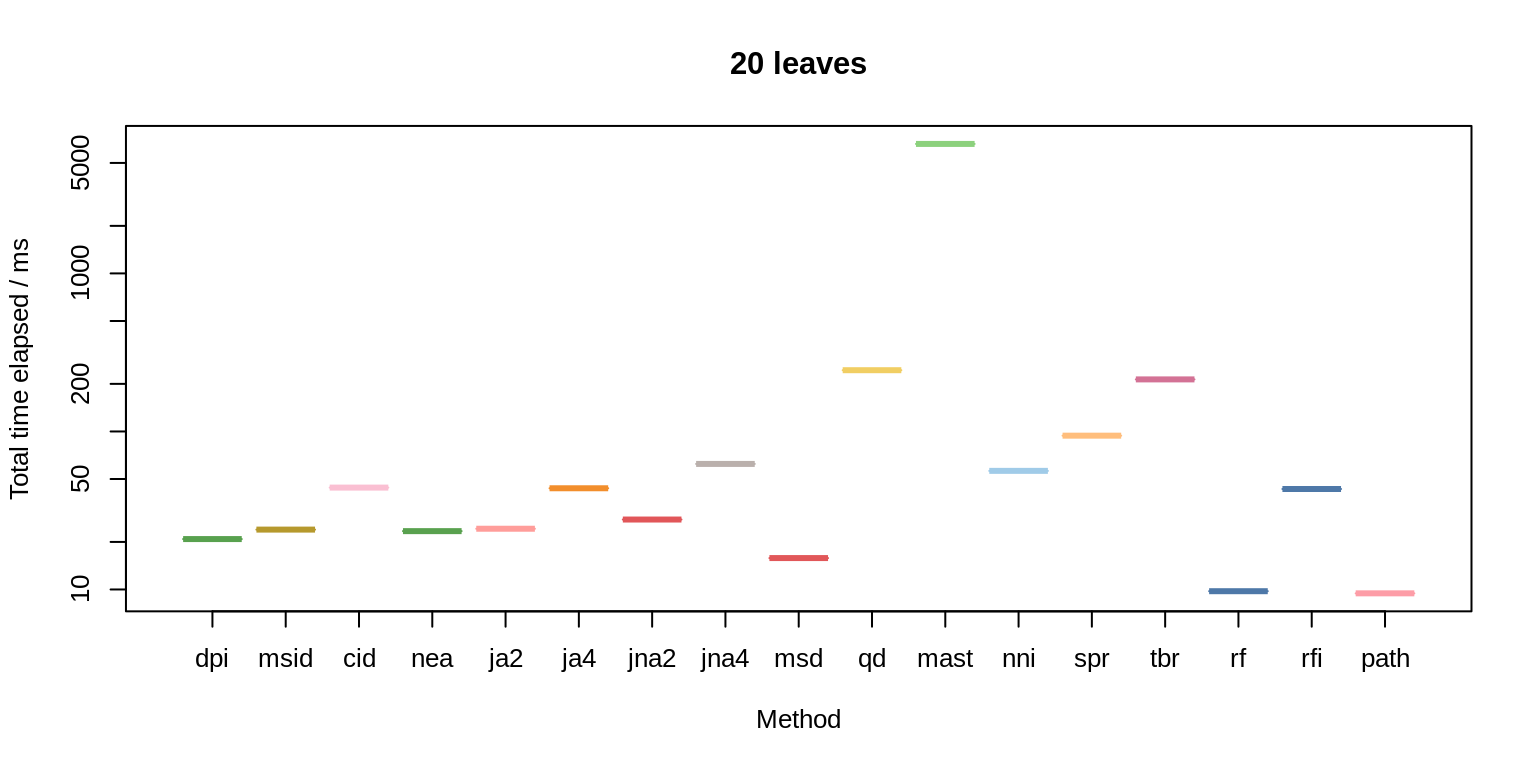
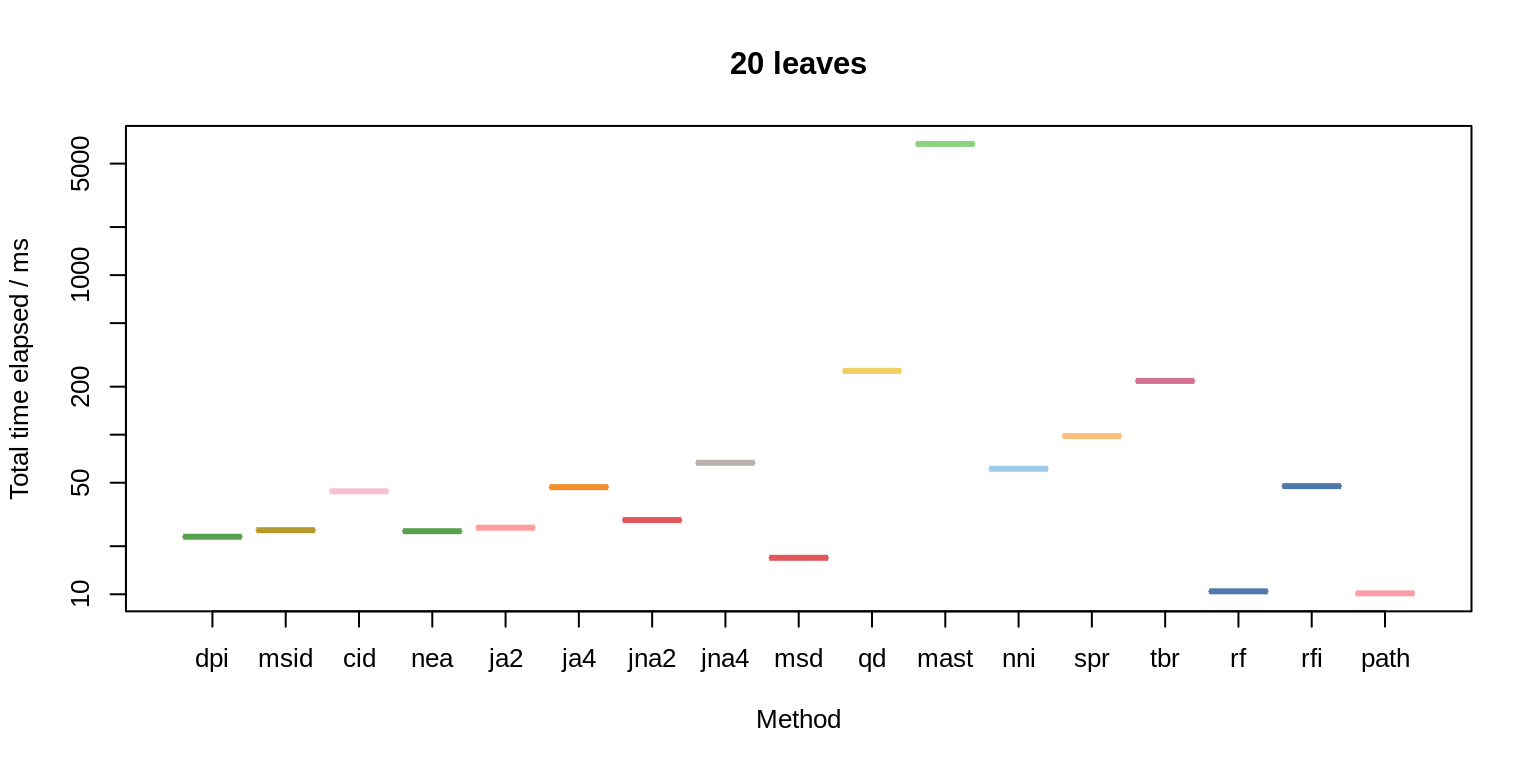
Built site for TreeDistData: 0.0.0.9008@fed78a9

diff --git a/articles/10-timing.html b/articles/10-timing.html
@@ -5,12 +5,12 @@
 <meta charset="utf-8">
 <meta http-equiv="X-UA-Compatible" content="IE=edge">
 <meta name="viewport" content="width=device-width, initial-scale=1.0">
-<title>10. Timing benchmarks • TreeDistData</title>
+<title>4. Timing benchmarks • TreeDistData</title>
 <!-- jquery --><script src="https://cdnjs.cloudflare.com/ajax/libs/jquery/3.3.1/jquery.min.js" integrity="sha256-FgpCb/KJQlLNfOu91ta32o/NMZxltwRo8QtmkMRdAu8=" crossorigin="anonymous"></script><!-- Bootstrap --><link rel="stylesheet" href="https://cdnjs.cloudflare.com/ajax/libs/twitter-bootstrap/3.3.7/css/bootstrap.min.css" integrity="sha256-916EbMg70RQy9LHiGkXzG8hSg9EdNy97GazNG/aiY1w=" crossorigin="anonymous">
 <script src="https://cdnjs.cloudflare.com/ajax/libs/twitter-bootstrap/3.3.7/js/bootstrap.min.js" integrity="sha256-U5ZEeKfGNOja007MMD3YBI0A3OSZOQbeG6z2f2Y0hu8=" crossorigin="anonymous"></script><!-- Font Awesome icons --><link rel="stylesheet" href="https://cdnjs.cloudflare.com/ajax/libs/font-awesome/5.7.1/css/all.min.css" integrity="sha256-nAmazAk6vS34Xqo0BSrTb+abbtFlgsFK7NKSi6o7Y78=" crossorigin="anonymous">
 <link rel="stylesheet" href="https://cdnjs.cloudflare.com/ajax/libs/font-awesome/5.7.1/css/v4-shims.min.css" integrity="sha256-6qHlizsOWFskGlwVOKuns+D1nB6ssZrHQrNj1wGplHc=" crossorigin="anonymous">
 <!-- clipboard.js --><script src="https://cdnjs.cloudflare.com/ajax/libs/clipboard.js/2.0.4/clipboard.min.js" integrity="sha256-FiZwavyI2V6+EXO1U+xzLG3IKldpiTFf3153ea9zikQ=" crossorigin="anonymous"></script><!-- headroom.js --><script src="https://cdnjs.cloudflare.com/ajax/libs/headroom/0.9.4/headroom.min.js" integrity="sha256-DJFC1kqIhelURkuza0AvYal5RxMtpzLjFhsnVIeuk+U=" crossorigin="anonymous"></script><script src="https://cdnjs.cloudflare.com/ajax/libs/headroom/0.9.4/jQuery.headroom.min.js" integrity="sha256-ZX/yNShbjqsohH1k95liqY9Gd8uOiE1S4vZc+9KQ1K4=" crossorigin="anonymous"></script><!-- pkgdown --><link href="../pkgdown.css" rel="stylesheet">
-<script src="../pkgdown.js"></script><meta property="og:title" content="10. Timing benchmarks">
+<script src="../pkgdown.js"></script><meta property="og:title" content="4. Timing benchmarks">
 <meta property="og:description" content="">
 <meta name="twitter:card" content="summary">
 <!-- mathjax --><script src="https://cdnjs.cloudflare.com/ajax/libs/mathjax/2.7.5/MathJax.js" integrity="sha256-nvJJv9wWKEm88qvoQl9ekL2J+k/RWIsaSScxxlsrv8k=" crossorigin="anonymous"></script><script src="https://cdnjs.cloudflare.com/ajax/libs/mathjax/2.7.5/config/TeX-AMS-MML_HTMLorMML.js" integrity="sha256-84DKXVJXs0/F8OTMzX4UR909+jtl4G7SPypPavF+GfA=" crossorigin="anonymous"></script><!--[if lt IE 9]>
@@ -81,7 +81,7 @@
       <a href="../articles/09-expected-similarity.html">2.2: Context tree distance values</a>
     </li>
     <li>
-      <a href="../articles/10-timing.html">10. Timing benchmarks</a>
+      <a href="../articles/10-timing.html">4. Timing benchmarks</a>
     </li>
     <li>
       <a href="../articles/11-correlation.html">11. Metric correlation</a>
@@ -115,7 +115,7 @@
       </header><div class="row">
   <div class="col-md-9 contents">
     <div class="page-header toc-ignore">
-      <h1>10. Timing benchmarks</h1>
+      <h1>4. Timing benchmarks</h1>
                         <h4 class="author">Martin R. Smith <a href="mailto:martin.smith@durham.ac.uk">martin.smith@durham.ac.uk</a>
 </h4>
             
@@ -128,10 +128,18 @@
 
     
     
-<p>Benchmarking conducted on an Intel(R) Xeon(R) CPU machine with <!--2 cores and--> 8.57 TB of RAM, comparing 45 trees obtained by performing successive subtree pruning and regrafting rearrangements on a pectinate starting tree.</p>
 <p>The time taken to compare all 990 pairs of trees by each method, was calculated, replicating timing 1 times.</p>
+<p>The below are the results of a benchmarking exercise conducted on an Intel(R) Xeon(R) CPU machine with <!--2 cores and--> 8.57 TB of RAM, comparing 45 trees obtained by performing successive subtree pruning and regrafting rearrangements on a pectinate starting tree.<br>
+The values reported in <span class="citation">(Smith, 2020)</span> were calculated on a modest desktop computer, and will differ from those reported here, which will have been generated on the hardware system used to render the documentation.</p>
+<div id="figure" class="section level2">
+<h2 class="hasAnchor">
+<a href="#figure" class="anchor"></a>Figure</h2>
 <p><img src="10-timing_files/figure-html/timings-20-1.png" width="768"></p>
 <p><img src="10-timing_files/figure-html/timings-50-1.png" width="768"></p>
+</div>
+<div id="tabulation" class="section level2">
+<h2 class="hasAnchor">
+<a href="#tabulation" class="anchor"></a>Tabulation</h2>
 <table class="table">
 <caption>Time per comparison / µs</caption>
 <thead><tr class="header">
@@ -142,95 +150,109 @@
 <tbody>
 <tr class="odd">
 <td>Path</td>
-<td align="right">9.5</td>
+<td align="right">10</td>
 <td align="right">15</td>
 </tr>
 <tr class="even">
 <td>Robinson-Foulds</td>
-<td align="right">9.9</td>
+<td align="right">11</td>
 <td align="right">13</td>
 </tr>
 <tr class="odd">
 <td>Match. Split Dist.</td>
-<td align="right">16.0</td>
-<td align="right">46</td>
+<td align="right">17</td>
+<td align="right">48</td>
 </tr>
 <tr class="even">
 <td>Diff. Phylog. Info</td>
-<td align="right">21.0</td>
-<td align="right">84</td>
+<td align="right">23</td>
+<td align="right">88</td>
 </tr>
 <tr class="odd">
 <td>Nye et al.</td>
-<td align="right">24.0</td>
+<td align="right">25</td>
 <td align="right">140</td>
 </tr>
 <tr class="even">
 <td>Match. Split Info Dist</td>
-<td align="right">24.0</td>
-<td align="right">150</td>
+<td align="right">25</td>
+<td align="right">160</td>
 </tr>
 <tr class="odd">
 <td>JRF (k=2, arboreal)</td>
-<td align="right">24.0</td>
+<td align="right">26</td>
 <td align="right">120</td>
 </tr>
 <tr class="even">
 <td>JRF (k=2, non-arb.)</td>
-<td align="right">28.0</td>
+<td align="right">29</td>
 <td align="right">180</td>
 </tr>
 <tr class="odd">
-<td>Robinson-Foulds Info</td>
-<td align="right">44.0</td>
-<td align="right">130</td>
-</tr>
-<tr class="even">
-<td>JRF (k=4, arboreal)</td>
-<td align="right">44.0</td>
-<td align="right">550</td>
-</tr>
-<tr class="odd">
 <td>Clust. Info. Dist.</td>
-<td align="right">45.0</td>
+<td align="right">45</td>
 <td align="right">270</td>
 </tr>
 <tr class="even">
+<td>JRF (k=4, arboreal)</td>
+<td align="right">47</td>
+<td align="right">570</td>
+</tr>
+<tr class="odd">
+<td>Robinson-Foulds Info</td>
+<td align="right">48</td>
+<td align="right">130</td>
+</tr>
+<tr class="even">
 <td>NNI (approx.)</td>
-<td align="right">57.0</td>
-<td align="right">85</td>
+<td align="right">62</td>
+<td align="right">84</td>
 </tr>
 <tr class="odd">
 <td>JRF (k=4, non-arb.)</td>
-<td align="right">63.0</td>
+<td align="right">67</td>
 <td align="right">900</td>
 </tr>
 <tr class="even">
 <td>SPR (approx.)</td>
-<td align="right">95.0</td>
-<td align="right">790</td>
+<td align="right">99</td>
+<td align="right">800</td>
 </tr>
 <tr class="odd">
 <td>TBR (approx.)</td>
-<td align="right">220.0</td>
-<td align="right">370</td>
+<td align="right">220</td>
+<td align="right">380</td>
 </tr>
 <tr class="even">
 <td>Quartet</td>
-<td align="right">250.0</td>
-<td align="right">440</td>
+<td align="right">250</td>
+<td align="right">450</td>
 </tr>
 <tr class="odd">
 <td>MAST size</td>
-<td align="right">6700.0</td>
-<td align="right">26000</td>
+<td align="right">6700</td>
+<td align="right">27000</td>
 </tr>
 </tbody>
 </table>
+<div id="refs" class="references">
+<div id="ref-Smith2020">
+<p>Smith, M. R. (2020). Information theoretic Generalized Robinson-Foulds metrics for comparing phylogenetic trees. <em>In Review</em>.</p>
 </div>
+</div>
+</div>
+  </div>
 
   <div class="col-md-3 hidden-xs hidden-sm" id="sidebar">
 
+        <div id="tocnav">
+      <h2 class="hasAnchor">
+<a href="#tocnav" class="anchor"></a>Contents</h2>
+      <ul class="nav nav-pills nav-stacked">
+<li><a href="#figure">Figure</a></li>
+      <li><a href="#tabulation">Tabulation</a></li>
+      </ul>
+</div>
       </div>
 
 </div>

diff --git a/news/index.html b/news/index.html
@@ -117,7 +117,7 @@
       <a href="../articles/09-expected-similarity.html">2.2: Context tree distance values</a>
     </li>
     <li>
-      <a href="../articles/10-timing.html">10. Timing benchmarks</a>
+      <a href="../articles/10-timing.html">4. Timing benchmarks</a>
     </li>
     <li>
       <a href="../articles/11-correlation.html">11. Metric correlation</a>
@@ -184,21 +184,24 @@
 <h1 class="page-header">
 <a href="#treedistdata-0-0-0-9005-development" class="anchor"></a>TreeDistData 0.0.0.9005 (development)</h1>
 <ul>
-<li>Percentiles for randomTreeDistances</li>
+<li>Percentiles for <code>randomTreeDistances</code>
+</li>
 </ul>
 </div>
     <div id="treedistdata-0-0-0-9004-development" class="section level1">
 <h1 class="page-header">
 <a href="#treedistdata-0-0-0-9004-development" class="anchor"></a>TreeDistData 0.0.0.9004 (development)</h1>
 <ul>
-<li>Add pectinateDistance11</li>
+<li>Add <code>pectinateDistance11</code>
+</li>
 </ul>
 </div>
     <div id="treedistdata-0-0-0-9003-development" class="section level1">
 <h1 class="page-header">
 <a href="#treedistdata-0-0-0-9003-development" class="anchor"></a>TreeDistData 0.0.0.9003 (development)</h1>
 <ul>
-<li>Add distanceDistribution11</li>
+<li>Add <code>distanceDistribution11</code>
+</li>
 </ul>
 </div>
     <div id="treedistdata-0-0-0-9002-development" class="section level1">
@@ -212,14 +215,15 @@
 <h1 class="page-header">
 <a href="#treedistdata-0-0-0-9001-development" class="anchor"></a>TreeDistData 0.0.0.9001 (development)</h1>
 <ul>
-<li>Update to use new function names MutualPhylogeneticInfo, MutualMatchingSplitInfo</li>
+<li>Update to use new function names <code>MutualPhylogeneticInfo()</code>, <code>MutualMatchingSplitInfo()</code>
+</li>
 </ul>
 </div>
     <div id="treedistdata-0-0-0-9000-development" class="section level1">
 <h1 class="page-header">
 <a href="#treedistdata-0-0-0-9000-development" class="anchor"></a>TreeDistData 0.0.0.9000 (development)</h1>
 <ul>
-<li>Extracted package from <code>TreeSearch</code> 0.3.2.9005.</li>
+<li>Extracted package from ‘TreeSearch’ 0.3.2.9005.</li>
 </ul>
 </div>
   </div>

diff --git a/reference/bullseye.html b/reference/bullseye.html
@@ -120,7 +120,7 @@ Kuhner and Yamato (2015)." />
       <a href="../articles/09-expected-similarity.html">2.2: Context tree distance values</a>
     </li>
     <li>
-      <a href="../articles/10-timing.html">10. Timing benchmarks</a>
+      <a href="../articles/10-timing.html">4. Timing benchmarks</a>
     </li>
     <li>
       <a href="../articles/11-correlation.html">11. Metric correlation</a>
@@ -186,7 +186,7 @@ Kuhner and Yamato (2015).</p>
 <code>20 leaves</code> and <code>50 leaves</code>.  Each element contains 1 000 trees with <em>n</em>
 leaves, randomly sampled from the uniform distribution using <code><a href='https://rdrr.io/pkg/ape/man/rtree.html'>ape::rtree</a></code>.</p>
 <p><code>bullXXInferred</code> is a list with four elements, named as in <code>bullseyeTrees</code>.
-Each element contains 1 000 subelements. Each subelement is a list of
+Each element contains 1 000 sub-elements. Each sub-element is a list of
 ten trees, which have been inferred from progressively more degraded datasets,
 originally simulated from the corresponding tree in <code>bullseyeTrees</code>.</p>
 <p><code>bullXXScores</code> is a list with four elements, named as in <code>bullseyeTrees</code>.

diff --git a/articles/index.html b/articles/index.html
@@ -117,7 +117,7 @@
       <a href="../articles/09-expected-similarity.html">2.2: Context tree distance values</a>
     </li>
     <li>
-      <a href="../articles/10-timing.html">10. Timing benchmarks</a>
+      <a href="../articles/10-timing.html">4. Timing benchmarks</a>
     </li>
     <li>
       <a href="../articles/11-correlation.html">11. Metric correlation</a>
@@ -168,7 +168,7 @@
         <li><a href="07-bullseye.html">1.8: Bullseye tests</a></li>
         <li><a href="08-spr-walking.html">1.9: Artificial tree rearrangement</a></li>
         <li><a href="09-expected-similarity.html">2.2: Context tree distance values</a></li>
-        <li><a href="10-timing.html">10. Timing benchmarks</a></li>
+        <li><a href="10-timing.html">4. Timing benchmarks</a></li>
         <li><a href="11-correlation.html">11. Metric correlation</a></li>
         <li><a href="X-heterogeneity.html">Heterogeneity</a></li>
       </ul>

diff --git a/reference/distanceDistributions.html b/reference/distanceDistributions.html
@@ -121,7 +121,7 @@ uniform distribution using ape::rtree(nTip, br=NULL)." />
       <a href="../articles/09-expected-similarity.html">2.2: Context tree distance values</a>
     </li>
     <li>
-      <a href="../articles/10-timing.html">10. Timing benchmarks</a>
+      <a href="../articles/10-timing.html">4. Timing benchmarks</a>
     </li>
     <li>
       <a href="../articles/11-correlation.html">11. Metric correlation</a>

diff --git a/reference/randomTreePairs.html b/reference/randomTreePairs.html
@@ -120,7 +120,7 @@ distribution using ape::rtree(nTip, br = NULL)." />
       <a href="../articles/09-expected-similarity.html">2.2: Context tree distance values</a>
     </li>
     <li>
-      <a href="../articles/10-timing.html">10. Timing benchmarks</a>
+      <a href="../articles/10-timing.html">4. Timing benchmarks</a>
     </li>
     <li>
       <a href="../articles/11-correlation.html">11. Metric correlation</a>

diff --git a/reference/randomTreeDistances.html b/reference/randomTreeDistances.html
@@ -121,7 +121,7 @@ ape::rtree(nTip, br=NULL)." />
       <a href="../articles/09-expected-similarity.html">2.2: Context tree distance values</a>
     </li>
     <li>
-      <a href="../articles/10-timing.html">10. Timing benchmarks</a>
+      <a href="../articles/10-timing.html">4. Timing benchmarks</a>
     </li>
     <li>
       <a href="../articles/11-correlation.html">11. Metric correlation</a>

diff --git a/reference/AllDists.html b/reference/AllDists.html
@@ -119,7 +119,7 @@
       <a href="../articles/09-expected-similarity.html">2.2: Context tree distance values</a>
     </li>
     <li>
-      <a href="../articles/10-timing.html">10. Timing benchmarks</a>
+      <a href="../articles/10-timing.html">4. Timing benchmarks</a>
     </li>
     <li>
       <a href="../articles/11-correlation.html">11. Metric correlation</a>

diff --git a/reference/CompareAllTrees.html b/reference/CompareAllTrees.html
@@ -119,7 +119,7 @@
       <a href="../articles/09-expected-similarity.html">2.2: Context tree distance values</a>
     </li>
     <li>
-      <a href="../articles/10-timing.html">10. Timing benchmarks</a>
+      <a href="../articles/10-timing.html">4. Timing benchmarks</a>
     </li>
     <li>
       <a href="../articles/11-correlation.html">11. Metric correlation</a>

diff --git a/reference/PairwiseDistances.html b/reference/PairwiseDistances.html
@@ -119,7 +119,7 @@
       <a href="../articles/09-expected-similarity.html">2.2: Context tree distance values</a>
     </li>
     <li>
-      <a href="../articles/10-timing.html">10. Timing benchmarks</a>
+      <a href="../articles/10-timing.html">4. Timing benchmarks</a>
     </li>
     <li>
       <a href="../articles/11-correlation.html">11. Metric correlation</a>

diff --git a/reference/TreeDistCol.html b/reference/TreeDistCol.html
@@ -119,7 +119,7 @@
       <a href="../articles/09-expected-similarity.html">2.2: Context tree distance values</a>
     </li>
     <li>
-      <a href="../articles/10-timing.html">10. Timing benchmarks</a>
+      <a href="../articles/10-timing.html">4. Timing benchmarks</a>
     </li>
     <li>
       <a href="../articles/11-correlation.html">11. Metric correlation</a>

diff --git a/reference/TreeDistData-package.html b/reference/TreeDistData-package.html
@@ -120,7 +120,7 @@
       <a href="../articles/09-expected-similarity.html">2.2: Context tree distance values</a>
     </li>
     <li>
-      <a href="../articles/10-timing.html">10. Timing benchmarks</a>
+      <a href="../articles/10-timing.html">4. Timing benchmarks</a>
     </li>
     <li>
       <a href="../articles/11-correlation.html">11. Metric correlation</a>
